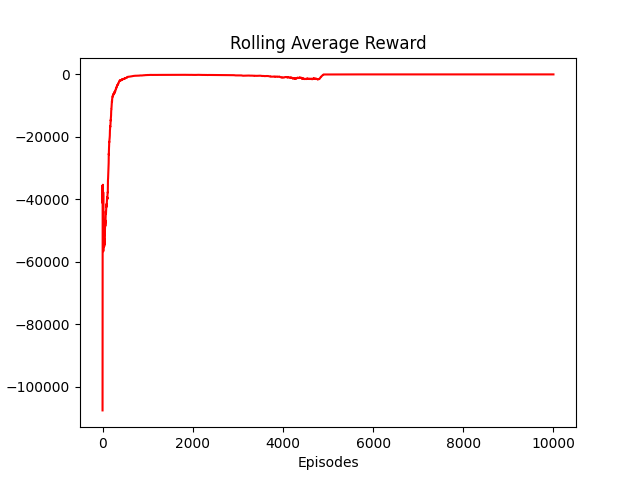
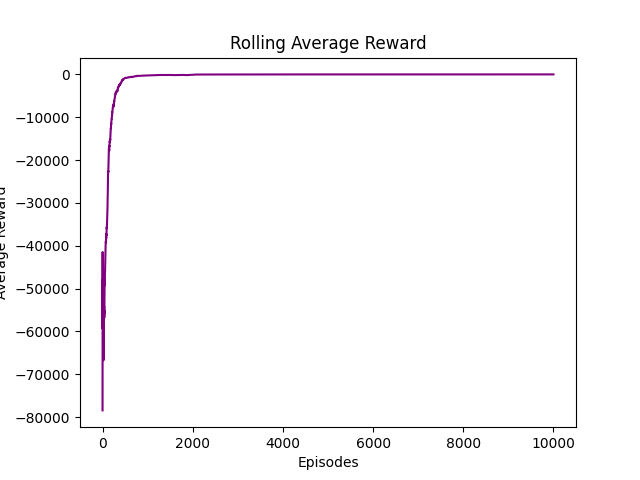
Sarsa Updated Graph Color

diff --git a/TemporalDifferencing/Sarsa/Sarsa.py b/TemporalDifferencing/Sarsa/Sarsa.py
@@ -81,7 +81,7 @@ def run(episodes, render=False, training=True):
         average_rewards[i] = np.mean(rewards[max(0, i-100):i+1])
 
     if training:
-        plt.plot(average_rewards, c='red')
+        plt.plot(average_rewards, c='purple')
         plt.title("Rolling Average Reward")
         plt.xlabel("Episodes")
         plt.ylabel("Average Reward")
